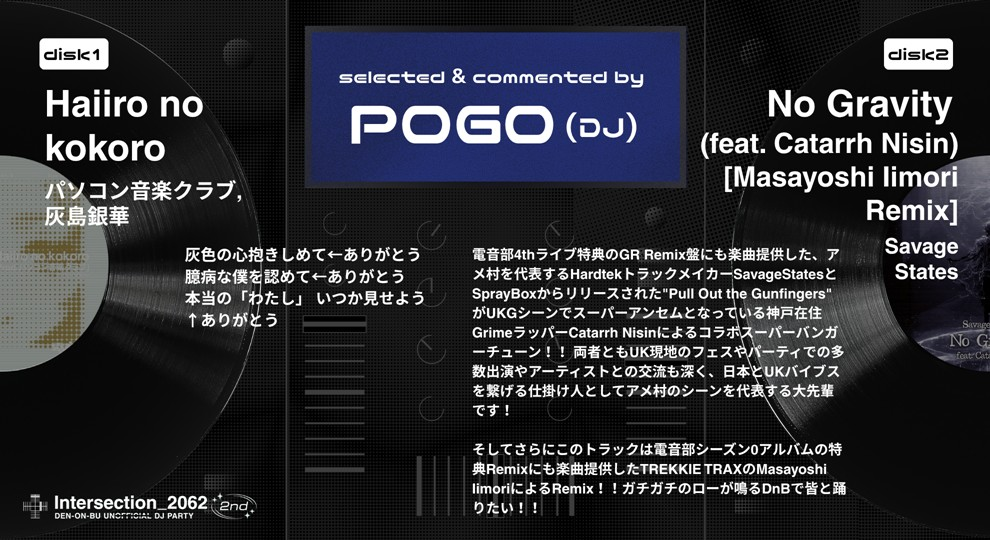
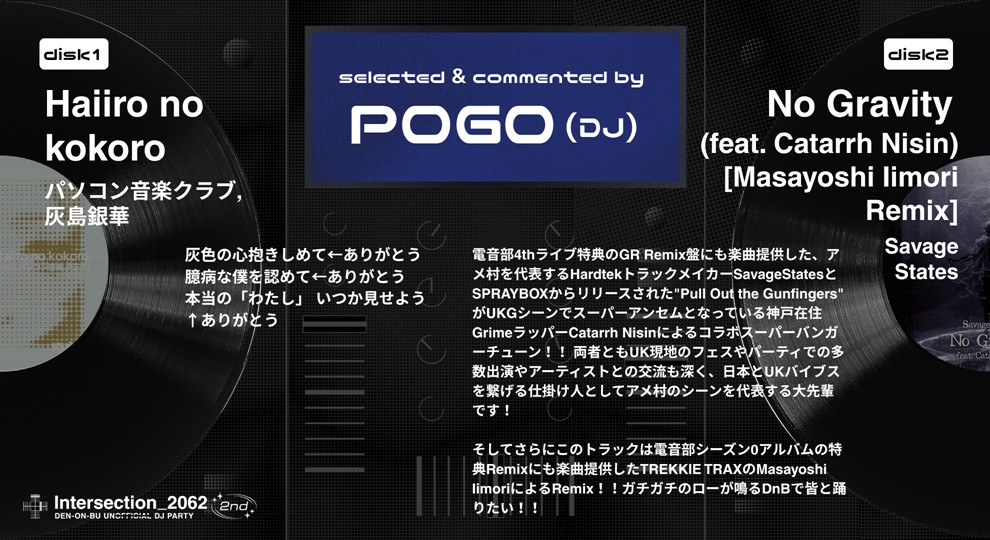
1016誤字修正

Changed region(s): [[0.4848, 0.5333, 0.8485, 0.563]]

diff --git a/src/content/blog/playlist-2nd.md b/src/content/blog/playlist-2nd.md
@@ -159,7 +159,7 @@ heroImage: '../../assets/2-playlist/s-00_playlist_smn.jpg'
 取り壊され、今では二度と見ることのできなくなってしまった光景も数多くあるだろう。<br>
 しかし、その中で生まれた音楽は消えることはなかった。<br>
 あの日の光景を思い出すために、または後の世代へと継いでいくために。<br>
-また或いは、自分の信じる音楽を、己の矜持を照明するために。<br>
+また或いは、自分の信じる音楽を、己の矜持を証明するために。<br>
 私たちは「PLAY/PAUSE」のボタンを押して、今日もフロアのスピーカーを振動させる。
 
 いつかまた、未曾有の事態が再び世界を襲うかもしれない。<br>
@@ -199,7 +199,7 @@ heroImage: '../../assets/2-playlist/s-00_playlist_smn.jpg'
 本当の「わたし」 いつか見せよう←ありがとう
 
 #### No Gravity(feat. Catarrh Nisin)[Masayoshi Iimori Remix] /Savage States
-電音部4thライブ特典のGR Remix盤にも楽曲提供した、アメ村を代表するHardtekトラックメイカーSavageStatesと SprayBoxからリリースされた"Pull Out the Gunfingers"がUKGシーンでスーパーアンセムとなっている神戸在住GrimeラッパーCatarrh Nisinによるコラボスーパーバンガーチューン！！<br>
+電音部4thライブ特典のGR Remix盤にも楽曲提供した、アメ村を代表するHardtekトラックメイカーSavageStatesと SPRAYBOXからリリースされた"Pull Out the Gunfingers"がUKGシーンでスーパーアンセムとなっている神戸在住GrimeラッパーCatarrh Nisinによるコラボスーパーバンガーチューン！！<br>
 両者ともUK現地のフェスやパーティでの多数出演やアーティストとの交流も深く、日本とUKバイブスを繋げる仕掛け人としてアメ村のシーンを代表する大先輩です！
 
 そしてさらにこのトラックは電音部シーズン0アルバムの特典Remixにも楽曲提供したTREKKIE TRAXのMasayoshi IimoriによるRemix！！ガチガチのローが鳴るDnBで皆と踊りたい！！
